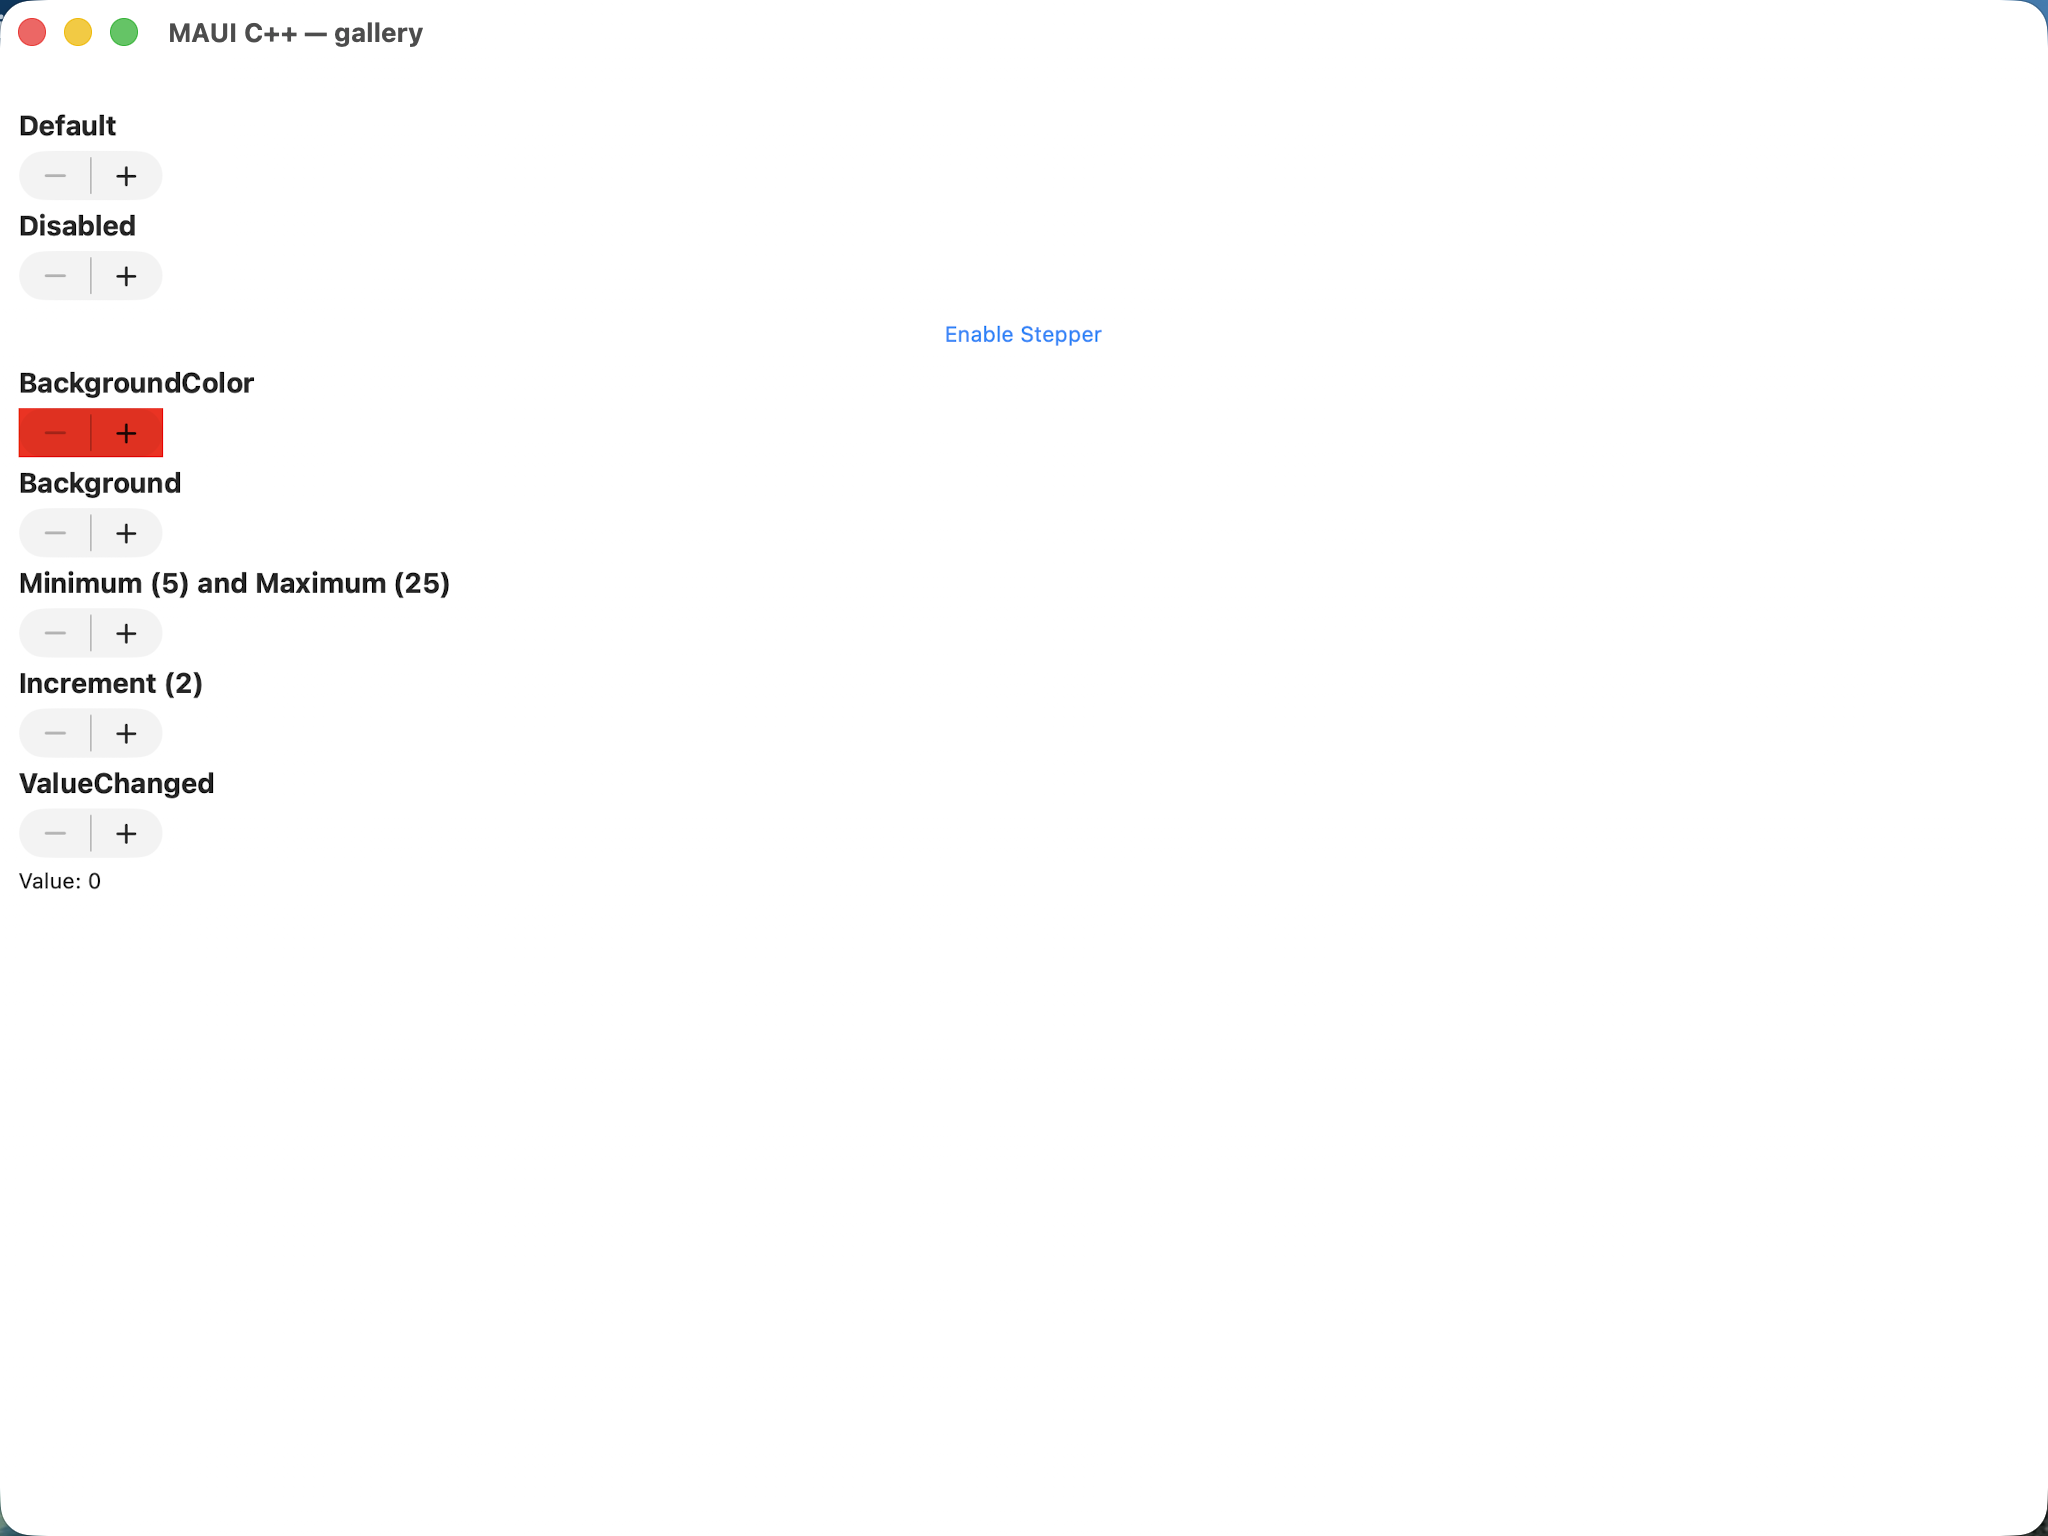
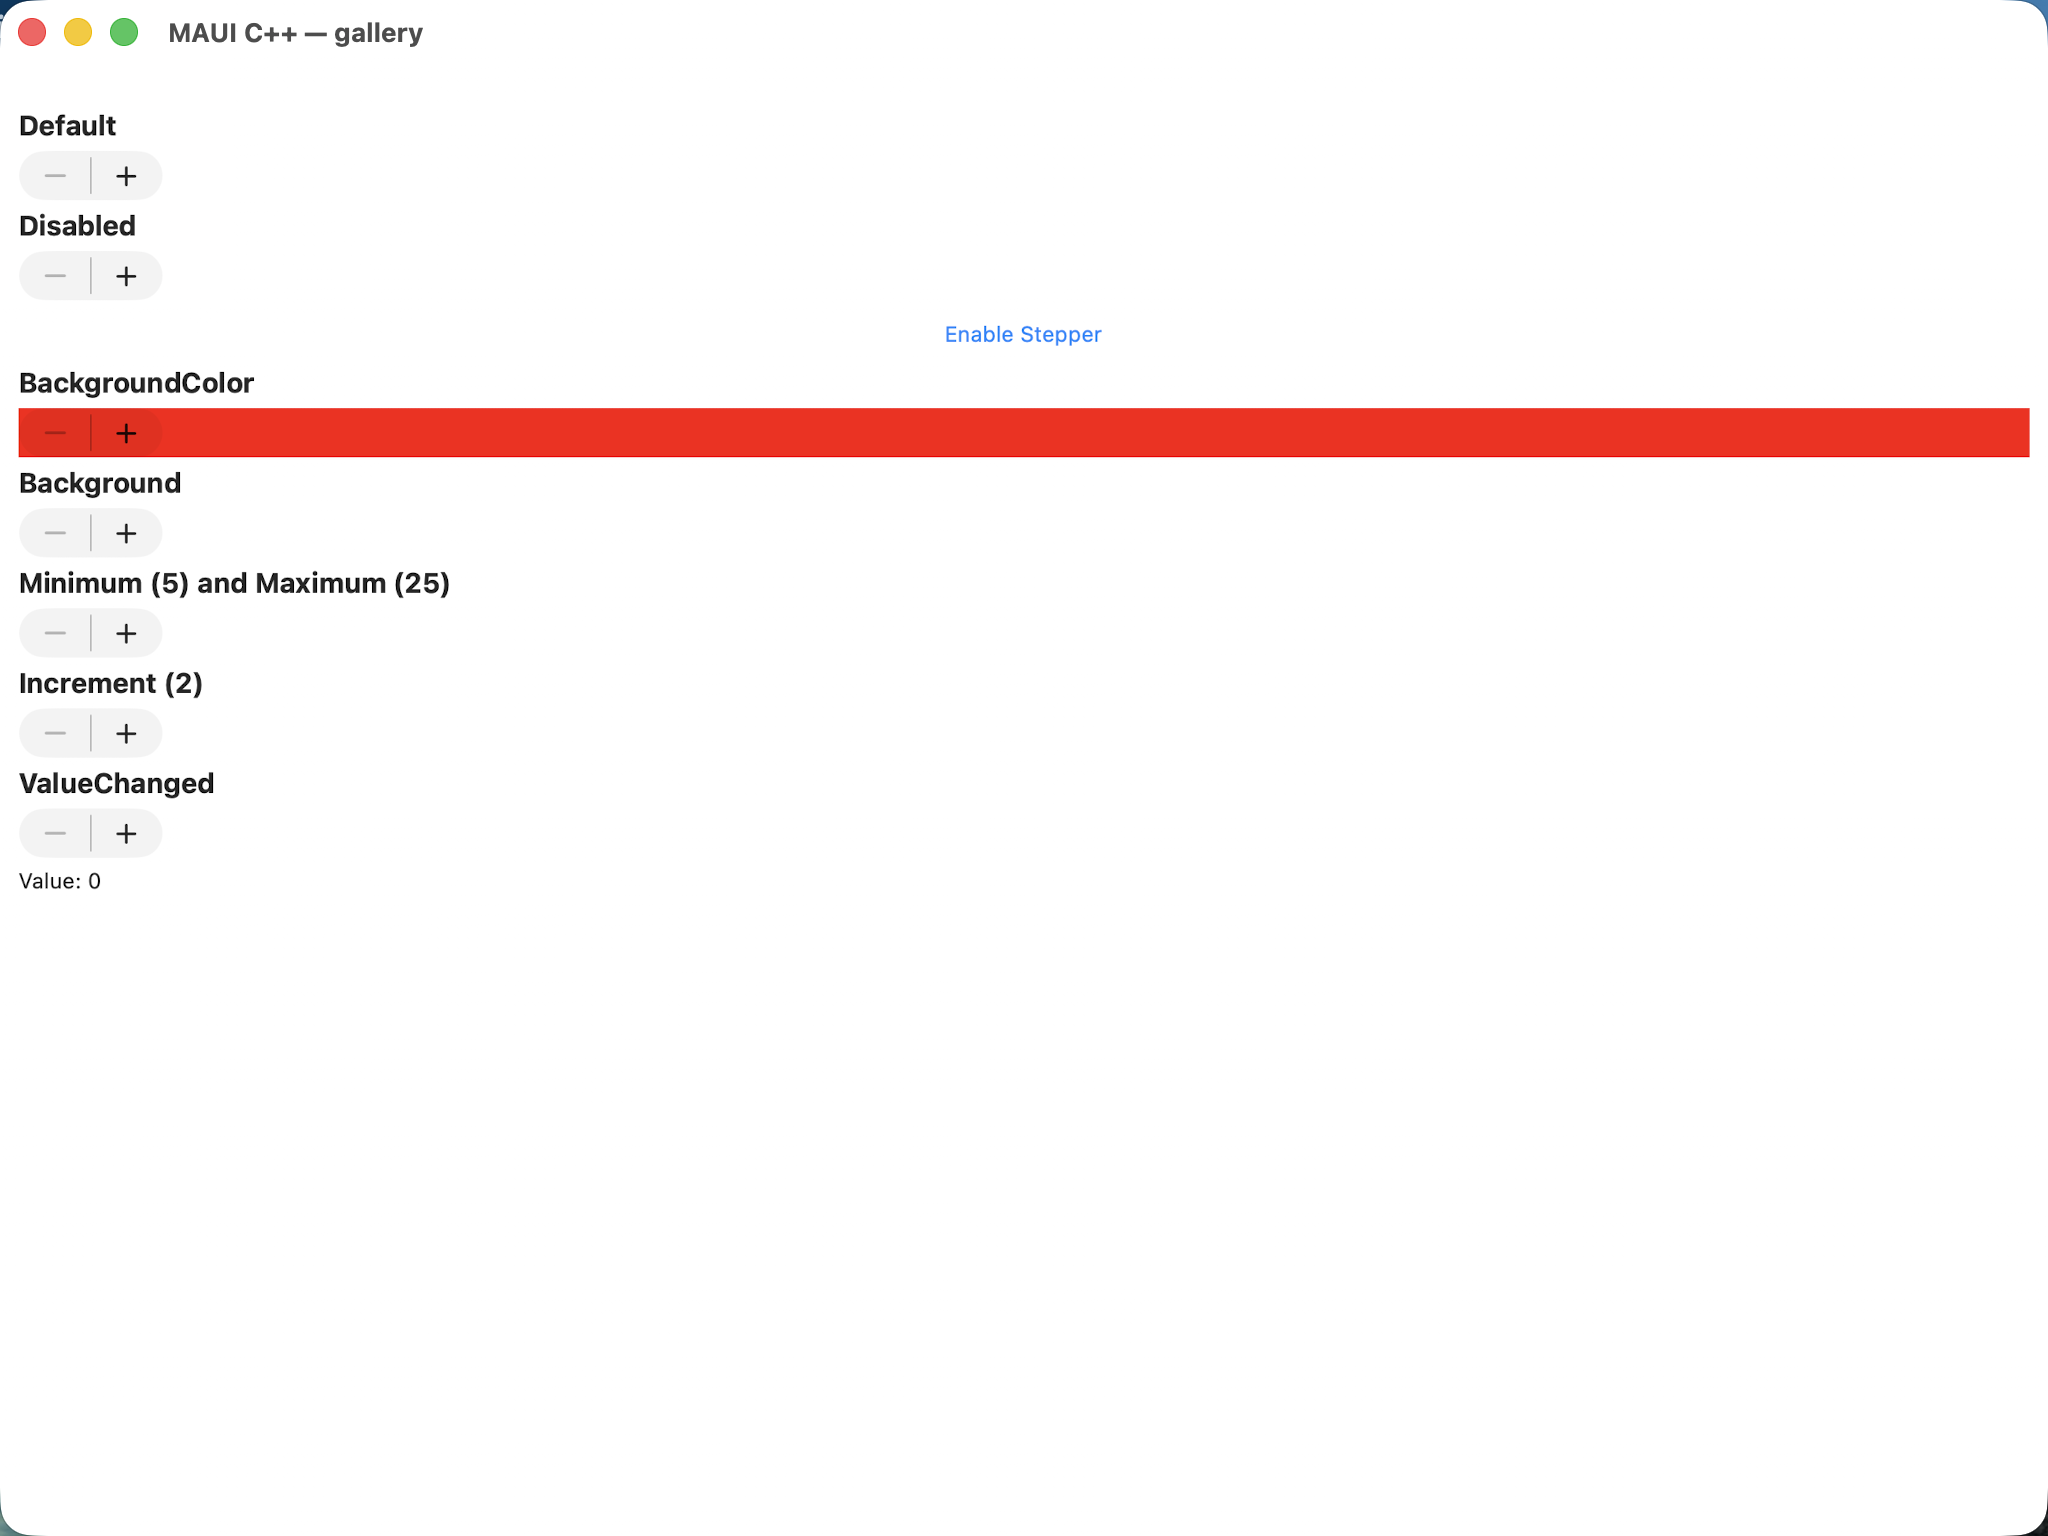
fix(maccatalyst,stepper): full-width solid Background behind the compact control
A UIStepper clamps its own bounds to its intrinsic (~140pt) width even when the handler arranges it
Fill (full row), so a solid BackgroundColor — painted on the control's own backing layer — filled only
that compact width. MAUI renders a Background FULL-WIDTH with the −|+ control sitting at the left
(verified capture). Diagnosed via platform_arrange instrumentation: arrange sets frame width 1306 but
the UIStepper's bounds snap back to ~94/140.

MauiIosStepper now paints a solid Background on a dedicated full-width _mauiFillLayer sized to the
ARRANGED width (stashed by platform_arrange as mauiFillWidth) and inserted behind the control, with the
stepper layer's masksToBounds=NO so it overflows the intrinsic-clamped bounds. update_background routes
a solid_paint to setMauiFillColor (nil clears it); gradient/image and no-background steppers are
untouched (no fill layer, default masksToBounds). Only the BackgroundColor stepper changed — every other
row on the page stays a compact gray pill.

stepper BackgroundColor row now matches MAUI: red band full-width, −|+ at the left. maccatalyst build
rc=0. (Same MauiIosStepper is shared with iOS, where UIStepper clamps identically, so this aligns iOS
too; iOS recapture pending.)

Changed region(s): [[0.0625, 0.25, 1.0, 0.3125]]

diff --git a/port/cpp/src/platform/ios/stepper_handler.mm b/port/cpp/src/platform/ios/stepper_handler.mm
@@ -31,6 +31,7 @@
 #include "maui/core/visibility.hpp"
 #include "maui/graphics/rect.hpp"
 #include "maui/graphics/size.hpp"
+#include "maui/graphics/solid_paint.hpp"
 
 namespace
 {
@@ -146,17 +147,47 @@ namespace
 }
 @end
 
-// MauiIosStepper — the UIStepper the handler presents. Its layoutSubviews override re-sizes any gradient/
-// image background sublayer apply_background installed (a solid BackgroundColor needs no resize — it is the
-// backing layer's backgroundColor), so a Background brush fills the band behind the −|+ buttons and tracks
-// bounds. apply_background runs before arrange, when bounds is zero, so the hook is needed for gradients.
+// MauiIosStepper — the UIStepper the handler presents. A UIStepper CLAMPS its own bounds to its intrinsic
+// (~140pt) width even when the handler arranges it Fill, so a solid BackgroundColor (the layer's own
+// backgroundColor) fills only that compact width. MAUI paints a Background FULL-WIDTH behind the compact
+// −|+ control. To match, a solid Background also drives a dedicated full-width _mauiFillLayer sized to the
+// ARRANGED width (mauiFillWidth, stashed by platform_arrange) inserted BEHIND the control, with the
+// layer's masksToBounds=NO so it overflows the clamped bounds — the −|+ buttons then sit at the left on a
+// full-width band. layoutSubviews also re-sizes any gradient/image background sublayer apply_background
+// installed (it tracks bounds; apply_background runs before arrange when bounds is zero).
 @interface MauiIosStepper : UIStepper
+@property(nonatomic) CGFloat mauiFillWidth;          // full arranged width (platform_arrange); 0 = unset
+@property(nonatomic, strong) CALayer* mauiFillLayer; // solid Background, full-width behind the control
+- (void)setMauiFillColor:(UIColor*)color;
 @end
 
 @implementation MauiIosStepper
+- (void)setMauiFillColor:(UIColor*)color
+{
+    if (color == nil)
+    {
+        [self.mauiFillLayer removeFromSuperlayer];
+        self.mauiFillLayer = nil;
+        return;
+    }
+    if (self.mauiFillLayer == nil)
+    {
+        self.mauiFillLayer = [CALayer layer];
+        [self.layer insertSublayer:self.mauiFillLayer atIndex:0];
+        self.layer.masksToBounds = NO; // let the full-width fill overflow the intrinsic-clamped bounds
+    }
+    self.mauiFillLayer.backgroundColor = color.CGColor;
+    [self setNeedsLayout];
+}
+
 - (void)layoutSubviews
 {
     [super layoutSubviews];
+    if (self.mauiFillLayer != nil)
+    {
+        const CGFloat w = self.mauiFillWidth > 0 ? self.mauiFillWidth : self.bounds.size.width;
+        self.mauiFillLayer.frame = CGRectMake(0, 0, w, self.bounds.size.height);
+    }
     maui::platform::ios::resize_background_layers((__bridge void*)self);
     // Re-frame the clip mask to the new bounds (WrapperView.LayoutSubviews re-runs SetClip): a
     // UIKit-driven resize / rotation that bypasses the handler would otherwise leave the mask sized
@@ -219,10 +250,17 @@ namespace maui::core
 
     void stepper_platform::update_background(const maui::graphics::paint* value)
     {
-        // BackgroundColor / Background brush fills the stepper's frame behind the −|+ buttons (MAUI paints
-        // it full-width when the stepper is laid out Fill). The shared helper paints a solid color onto the
-        // backing layer or installs a gradient/image sublayer (MauiIosStepper.layoutSubviews keeps it sized);
-        // a null paint clears it.
+        // BackgroundColor / Background brush fills the stepper's frame behind the −|+ buttons. A UIStepper
+        // clamps its bounds to the intrinsic width, so a SOLID color also drives the full-width fill layer
+        // (MauiIosStepper) so the band spans the whole row like MAUI; a gradient/image or null paint clears
+        // it. The shared helper still paints the solid onto the backing layer / installs a gradient sublayer.
+        UIStepper* const stepper = as_stepper(native);
+        if ([stepper isKindOfClass:[MauiIosStepper class]])
+        {
+            const auto* const solid = dynamic_cast<const maui::graphics::solid_paint*>(value);
+            [(MauiIosStepper*)stepper
+                setMauiFillColor:(solid != nullptr ? maui::platform::ios::to_ui_color(solid->color()) : nil)];
+        }
         maui::platform::ios::apply_background(native, value);
     }
 
@@ -354,7 +392,15 @@ namespace maui::core
         {
             return;
         }
-        [as_stepper(platform->native) setFrame:CGRectMake(frame.x, frame.y, frame.width, frame.height)];
+        UIStepper* const stepper = as_stepper(platform->native);
+        [stepper setFrame:CGRectMake(frame.x, frame.y, frame.width, frame.height)];
+        // Stash the full arranged width so the full-width solid-Background fill layer (which must overflow
+        // the UIStepper's intrinsic-clamped bounds) can size itself in layoutSubviews.
+        if ([stepper isKindOfClass:[MauiIosStepper class]])
+        {
+            ((MauiIosStepper*)stepper).mauiFillWidth = frame.width;
+            [stepper setNeedsLayout];
+        }
     }
 
     // Render transform pushed to the native UIView via the shared ios apply_transform helper
